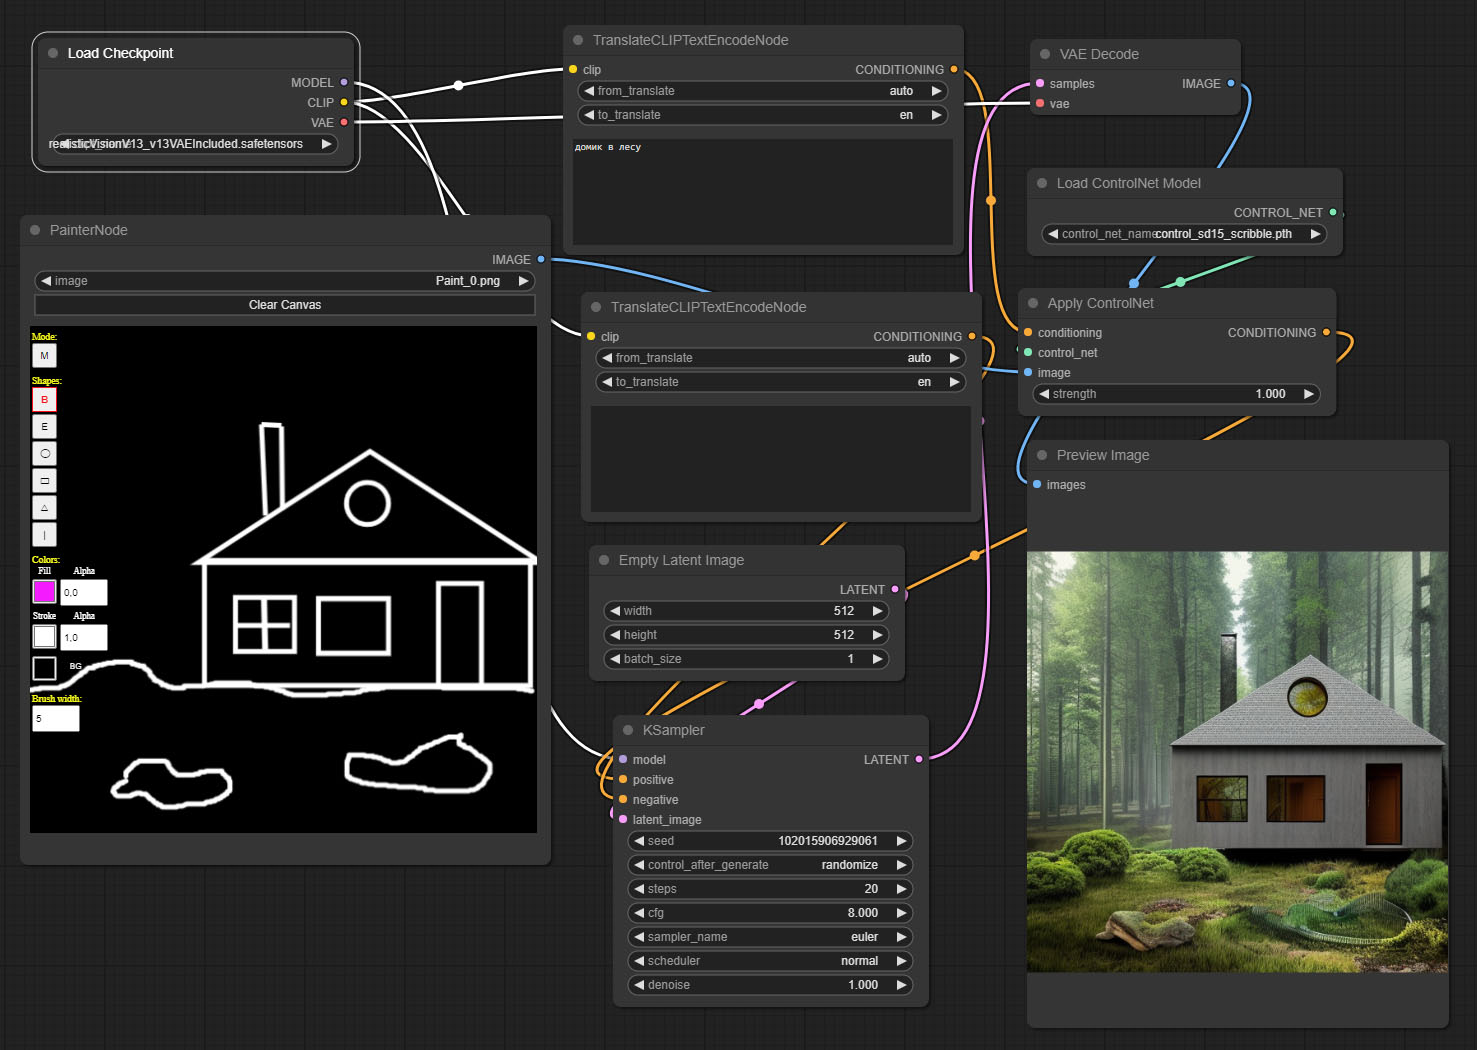
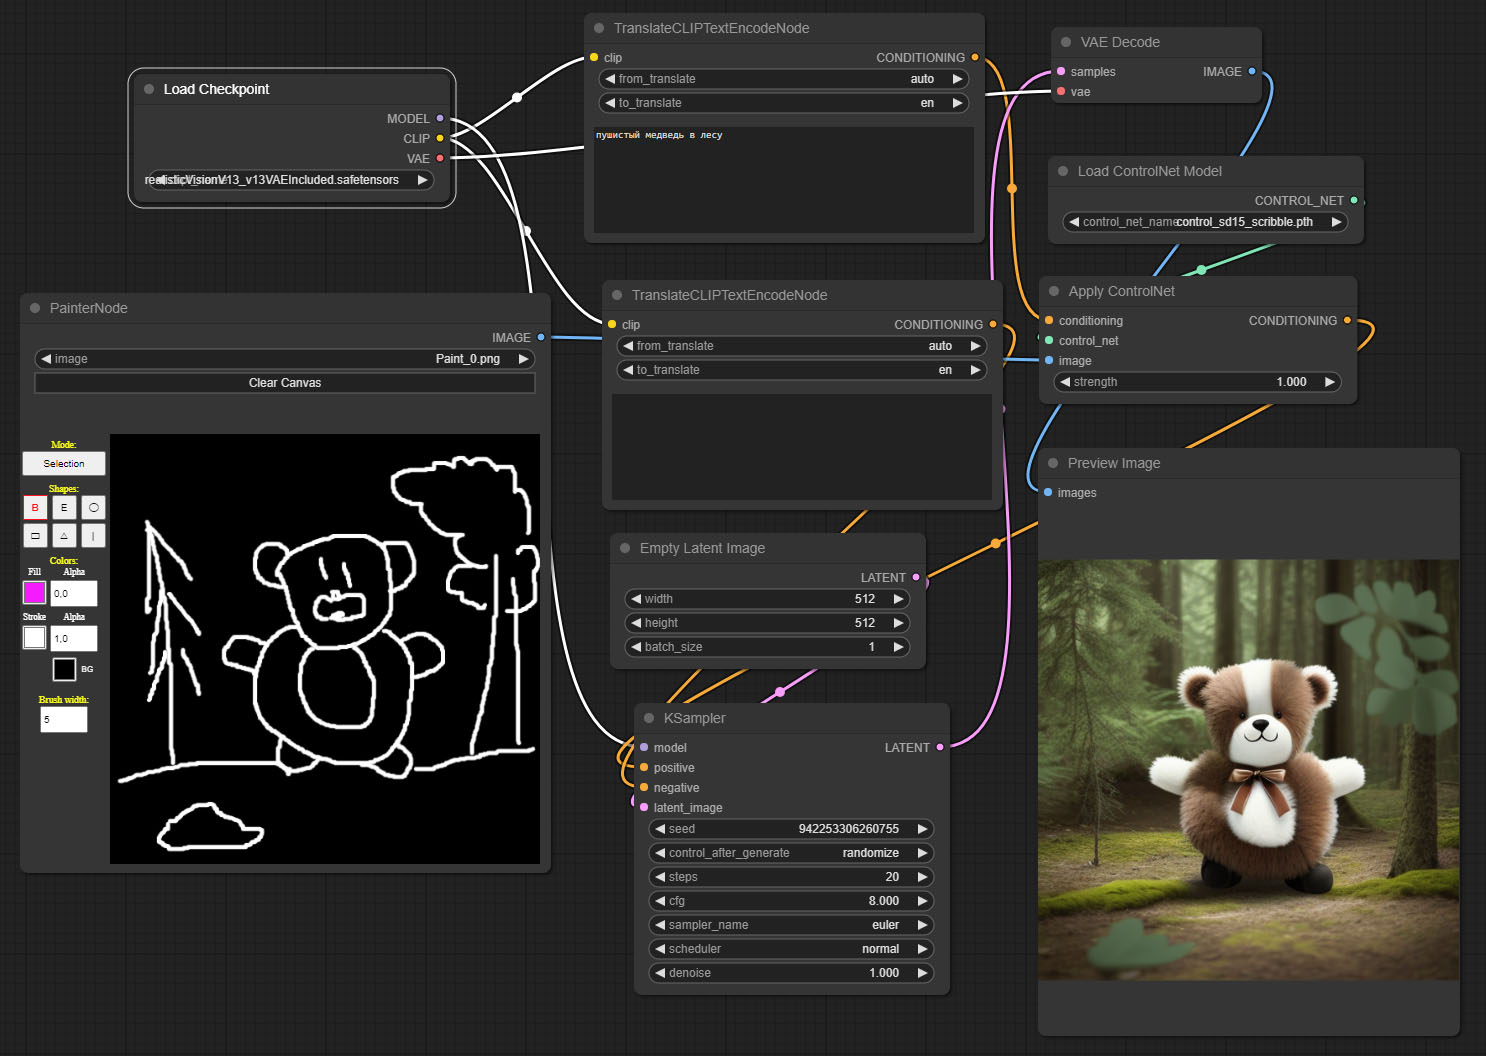
redesign control panel and fixs bug

diff --git a/PainterNode/js/painter_node.js b/PainterNode/js/painter_node.js
@@ -107,10 +107,10 @@ class Painter {
     </div>
     <div class="painter_drawning_box">
     <div class="painter_mode_box fieldset_box" f_name="Mode">
-    <button id="painter_change_mode" title="Enable modify mode">M</button>
+    <button id="painter_change_mode" title="Enable selection mode">Selection</button>
     </div>
     <div class="painter_drawning_elements" style="display:block;">
-    <div class="painter_shapes_box fieldset_box" f_name="Shapes">
+    <div class="painter_grid_style painter_shapes_box fieldset_box" f_name="Shapes">
     <button class="active" data-shape='Brush' title="Brush">B</button>
     <button data-shape='Erase' title="Erase">E</button>
     <button data-shape='Circle' title="Draw circle">◯</button>
@@ -119,12 +119,12 @@ class Painter {
     <button data-shape='Line' title="Draw line">|</button>
     </div>
     <div class="painter_colors_box fieldset_box" f_name="Colors">
-    <div class="painter_colors_alpha">
+    <div class="painter_grid_style painter_colors_alpha">
     <span>Fill</span><span>Alpha</span>
     <input id="fillColor" type="color" value="#FF00FF" title="Fill color">
     <input id="fillColorTransparent" type="number" max="1.0" min="0" step="0.05" value="0.0" title="Alpha fill value">
     </div>
-    <div class="painter_colors_alpha">
+    <div class="painter_grid_style painter_colors_alpha">
     <span>Stroke</span><span>Alpha</span>
     <input id="strokeColor" type="color" value="#FFFFFF" title="Stroke color">    
     <input id="strokeColorTransparent" type="number" max="1.0" min="0" step="0.05" value="1.0" title="Stroke alpha value">
@@ -174,20 +174,18 @@ class Painter {
 
     if (this.drawning) {
       this.canvas.isDrawingMode = this.drawning = false;
-      target.textContent = "D";
-      target.title = "Enable draw mode";
+      target.textContent = "Drawing";
+      target.title = "Enable drawing mode";
       showHide(this.manipulation_box, nextElement);
     } else {
       this.canvas.discardActiveObject();
-
-      this.type = "Brush";
-      this.changePropertyBrush();
-      this.setActiveElement(
-        this.shapes_box.querySelector("[data-shape=Brush]")
-      );
       this.canvas.isDrawingMode = this.drawning = true;
-      target.textContent = "M";
-      target.title = "Enable modify mode";
+
+      if (!["Brush", "Erase"].includes(this.type))
+        this.canvas.isDrawingMode = false;
+
+      target.textContent = "Selection";
+      target.title = "Enable selection mode";
       showHide(this.manipulation_box, nextElement);
       this.canvas.renderAll();
     }
@@ -271,7 +269,7 @@ class Painter {
     };
     // Event change stroke width
     this.strokeWidth.onchange = () => {
-      if (this.type == "Brush" || this.type == "Erase") {
+      if (["Brush", "Erase"].includes(this.type)) {
         this.changePropertyBrush(this.type);
       }
       this.canvas.renderAll();
@@ -280,8 +278,6 @@ class Painter {
     this.canvas.on("mouse:down", (o) => {
       this.canvas.isDrawingMode = this.drawning;
       if (!this.canvas.isDrawingMode) return;
-
-      if (this.type == "Brush" && this.type == "Erase") return;
 
       let pointer = this.canvas.getPointer(o.e),
         shape = null;
@@ -377,7 +373,7 @@ class Painter {
         return;
       }
 
-      if (this.type == "Brush" || this.type == "Erase") return;
+      if (["Brush", "Erase"].includes(this.type)) return;
 
       let pointer = this.canvas.getPointer(o.e),
         activeObj = this.canvas.getActiveObject();
@@ -421,7 +417,7 @@ class Painter {
         }
       });
 
-      if (this.type !== "Brush" && this.type !== "Erase") {
+      if (!["Brush", "Erase"].includes(this.type)) {
         this.canvas.isDrawingMode = false;
       }
       this.canvas.renderAll();
@@ -495,12 +491,14 @@ function PainterWidget(node, inputName, inputData, app) {
     draw: function (ctx, _, widgetWidth, y, widgetHeight) {
       const t = ctx.getTransform(),
         margin = 10,
-        visible = app.canvas.ds.scale > 0.5 && this.type === "painter_widget";
-      let w = (widgetWidth - margin * 2 - 3) * t.a;
+        left_offset = 9,
+        top_offset = 30,
+        visible = app.canvas.ds.scale > 0.6 && this.type === "painter_widget",
+        w = (widgetWidth - margin * 2 - 80) * t.a;
 
       Object.assign(this.painter_wrap.style, {
-        left: `${t.a * margin + t.e}px`,
-        top: `${t.d * (y + widgetHeight - margin - 3) + t.f}px`,
+        left: `${t.a * margin * left_offset + t.e}px`,
+        top: `${t.d * (y + widgetHeight - margin - 3 + top_offset) + t.f}px`,
         width: w + "px",
         height: w + "px",
         position: "absolute",
@@ -519,7 +517,7 @@ function PainterWidget(node, inputName, inputData, app) {
 
       Array.from(
         this.painter_wrap.children[2].querySelectorAll(
-          "input, button, input:after, span"
+          "input, button, input:after, span, div.painter_drawning_box"
         )
       ).forEach((element) => {
         if (element.type == "number") {
@@ -530,15 +528,27 @@ function PainterWidget(node, inputName, inputData, app) {
           });
         } else if (element.tagName == "SPAN") {
           // NOPE
+        } else if (element.tagName == "DIV") {
+          Object.assign(element.style, {
+            width: `${88 * t.a}px`,
+            left: `${-90 * t.a}px`,
+          });
         } else {
           Object.assign(element.style, {
-            width: `${(element.id.includes("lock") ? 75 : 25) * t.a}px`,
+            cursor: "pointer",
+            width: `${
+              (element.id.includes("lock")
+                ? 75
+                : element.id.includes("painter_change_mode")
+                ? 84
+                : 25) * t.a
+            }px`,
             height: `${(element.id.includes("lock") ? 15 : 25) * t.d}px`,
             fontSize: `${t.d * 10.0}px`,
           });
         }
-        element.hidden = !visible;
       });
+      this.painter_wrap.hidden = !visible;
     },
   };
 
@@ -652,6 +662,7 @@ app.registerExtension({
     .painter_manipulation_box {
       position: absolute;
       left: 50%;
+      top: -20px;
       transform: translateX(-50%);
       width: 100%;
     }
@@ -666,15 +677,17 @@ app.registerExtension({
     .painter_drawning_box {
       position: absolute;
       top: 0;
+      //left: -20%;
+      width: 88px;
     }
     .painter_drawning_box button {
       width: 24px;
     }
-    .painter_drawning_box .painter_shapes_box, .painter_drawning_box .painter_colors_box {
+    .painter_colors_box, .painter_mode_box, .painter_stroke_box {
       display: flex;
       flex-direction: column;
       gap: 2px;
-      align-items: stretch;
+      align-items: center;
     }
     .painter_drawning_box input[type="number"] {
       width: 2.6rem;
@@ -685,26 +698,31 @@ app.registerExtension({
       padding: 0;
       margin-bottom: 5px;
     }    
-    #bgColor:after
+    .painter_colors_box #bgColor:after
     {
       content: attr(data-label);
       position: absolute;
       color: white;
-      left: 45%;
+      left: 70%;
       font-size: 0.5rem;
-      margin-top: -20%;
+      margin-top: -18%;
     }
     .painter_colors_box input[type="color"]::-webkit-color-swatch-wrapper {
       padding: 1px !important;
     }
-    .painter_colors_alpha{
+    .painter_grid_style{
       display: grid;
-      grid-template-columns: 0.7fr 0.7fr;
+      gap: 3px;
       font-size: 0.55rem;
       text-align: center;
       align-items: start;
       justify-items: center;
-      gap: 3px;
+    }
+    .painter_shapes_box {
+      grid-template-columns: 1fr 1fr 1fr;
+   }   
+    .painter_colors_alpha{
+      grid-template-columns: 0.7fr 0.7fr;
     }
     .fieldset_box {
       padding: 2px;
@@ -729,6 +747,7 @@ app.registerExtension({
         let widgetImage = n.widgets.find((w) => w.name == "image");
         if (widgetImage && Object.hasOwn(LS_Painters, n.name)) {
           let painter_ls = LS_Painters[n.name].undo_history;
+          n.setSize([530, 550]);
           /*n.painter.loadPreset(
             painter_ls.length > 0
               ? painter_ls[painter_ls.length - 1]
@@ -776,7 +795,7 @@ app.registerExtension({
           this.painter.uploadPaintFile(nodeNamePNG);
         }, 1);
 
-        this.setSize([530, 620]);
+        this.setSize([530, 550]);
 
         return r;
       };
